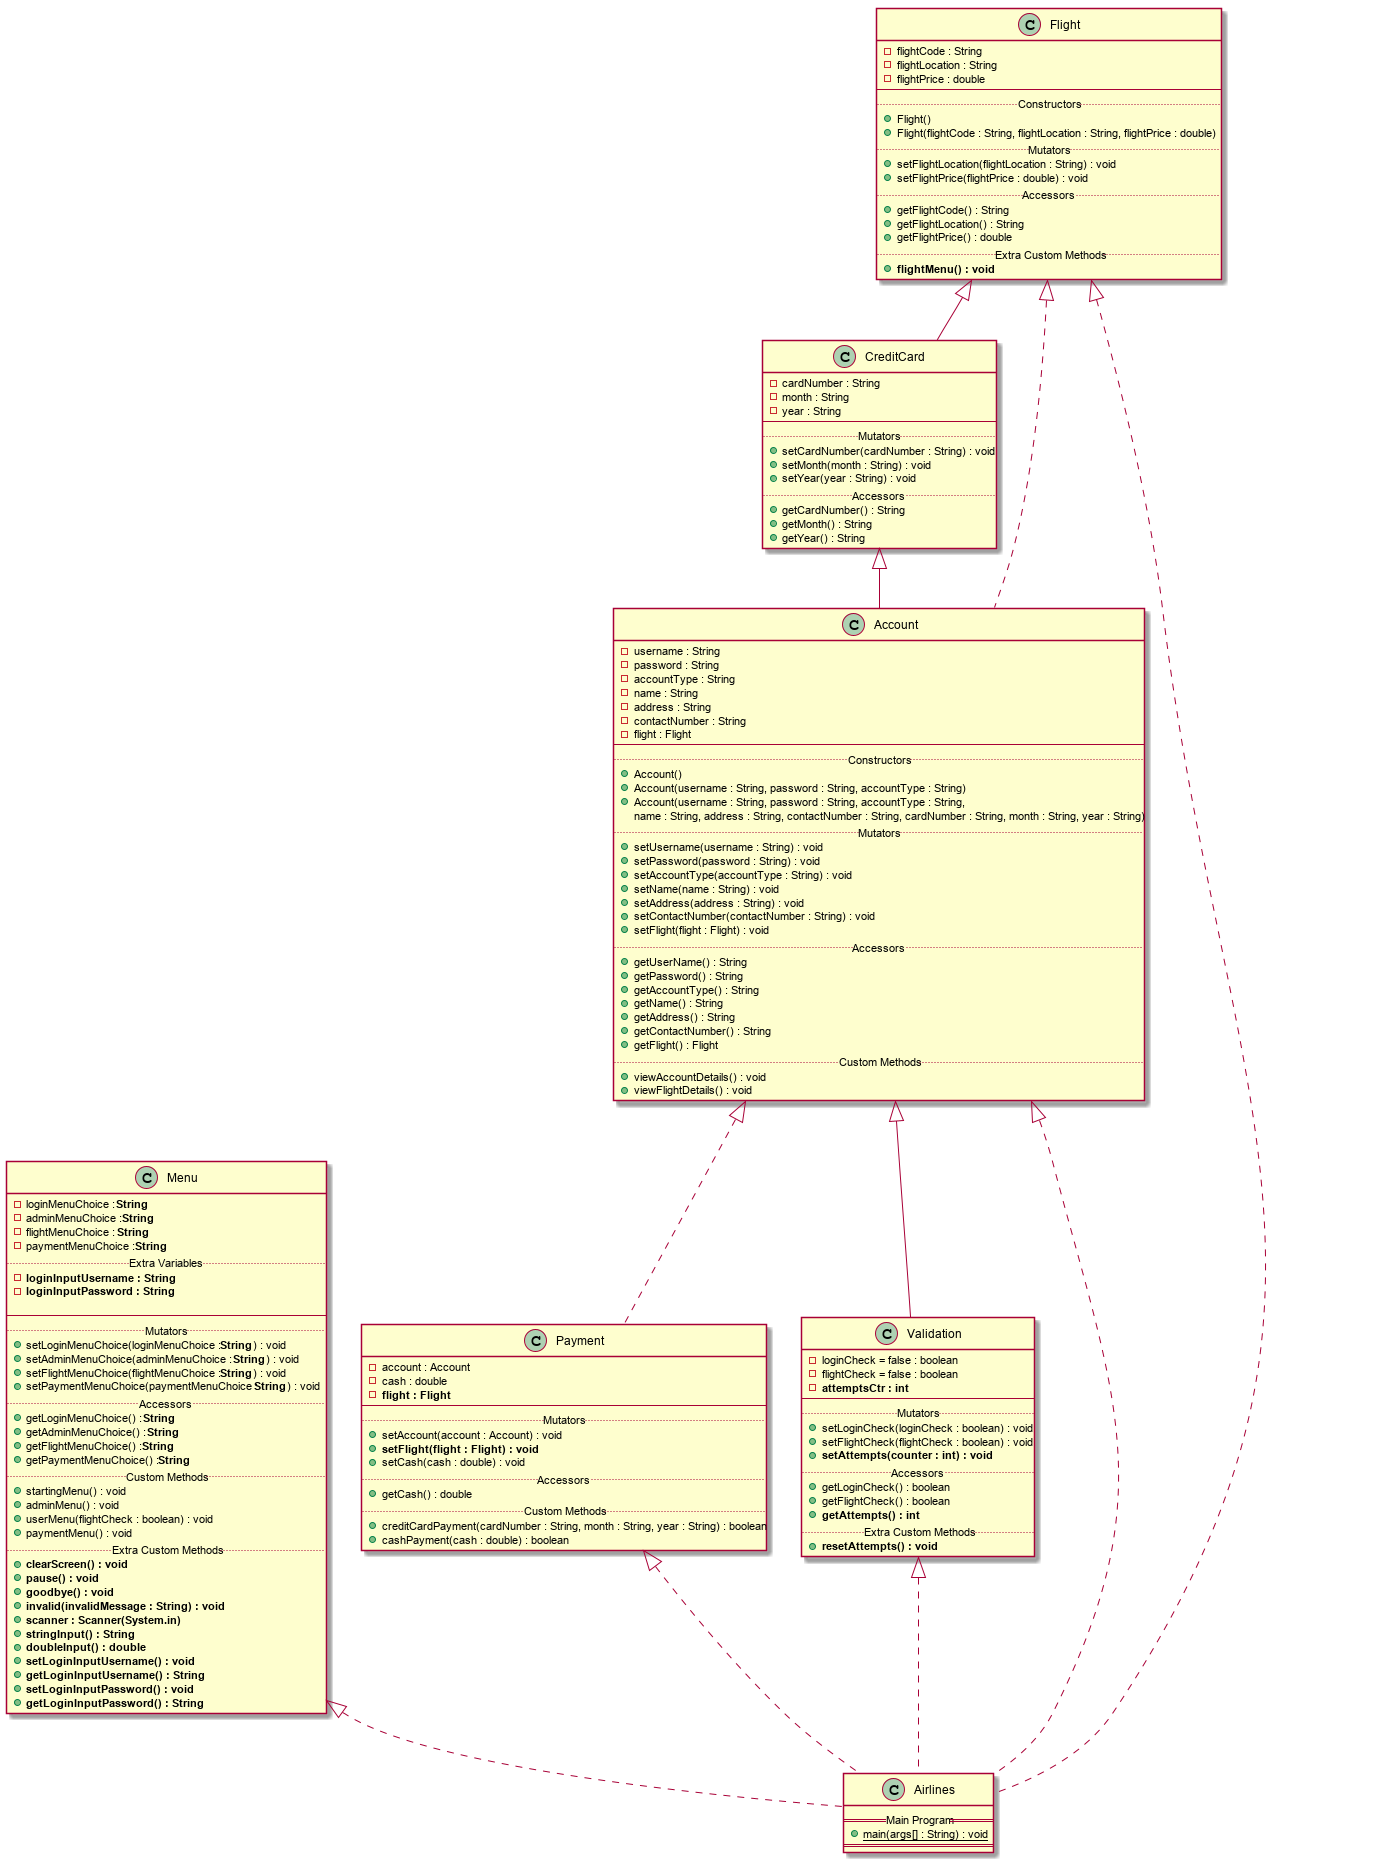
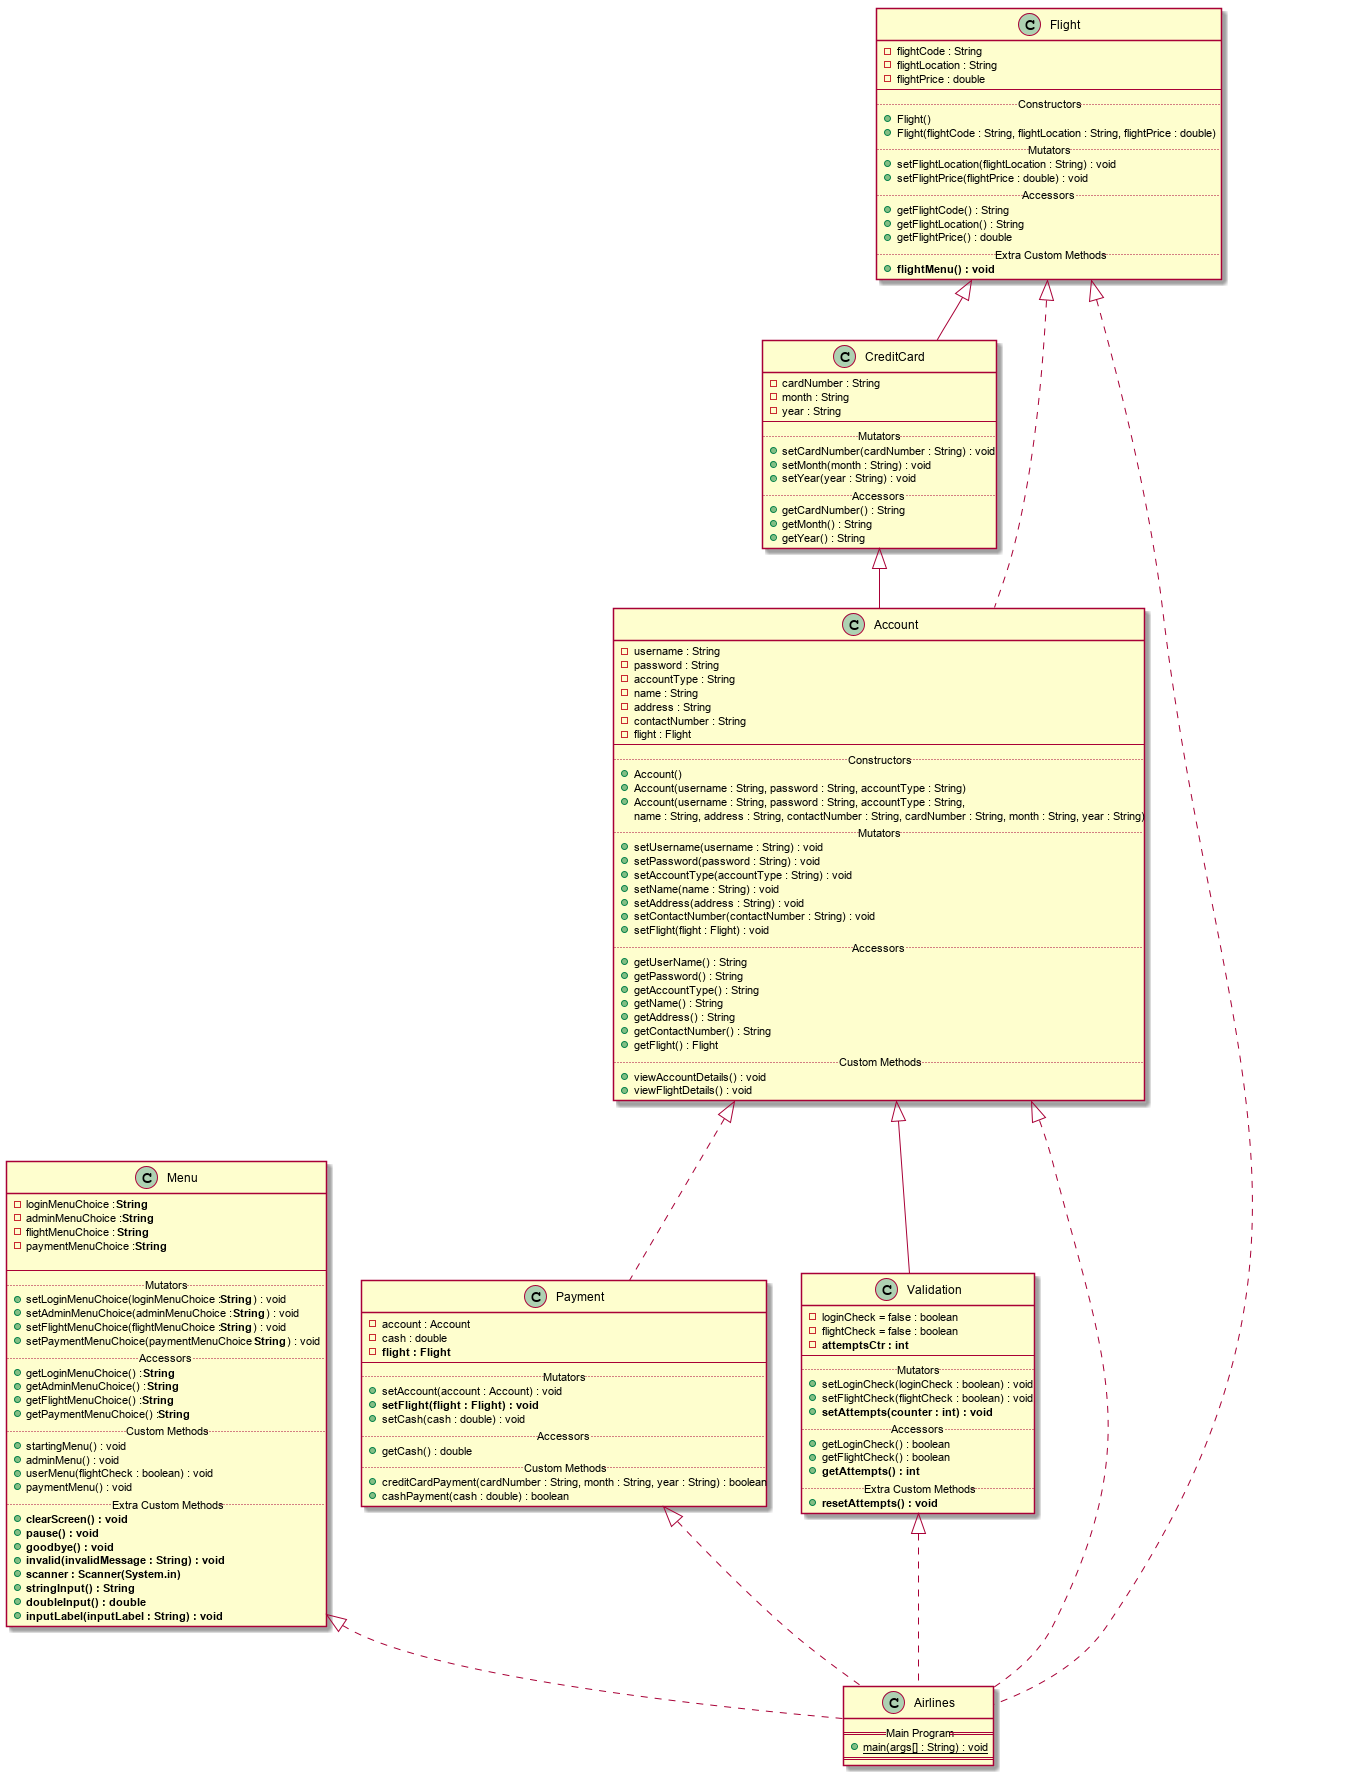
more progress on airlines.

Changed region(s): [[0.4289, 0.0, 0.919, 0.6507], [0.0, 0.6197, 0.7659, 0.9296], [0.5821, 0.9296, 0.7352, 1.0]]

diff --git a/Java Projects/Grade 11/DeGuzmanIAN-Llantos_JavaAirlines/Airlines.java b/Java Projects/Grade 11/DeGuzmanIAN-Llantos_JavaAirlines/Airlines.java
@@ -15,6 +15,7 @@ public class Airlines
         Flight plane2 = new Flight("5PNB61", "Akihabara, Japan", 4500);
         Flight plane3 = new Flight("1KL78H","Beijing, China",4000);
 
+        // Loop 0: Login Menu
         while(!menu.getLoginMenuChoice().equals("2"))
         {
             menu.clearScreen();
@@ -23,8 +24,10 @@ public class Airlines
 
             switch(menu.getLoginMenuChoice())
             {
-                case "1":
 
+                case "1":
+                    
+                    // Loop 1: Login Verification
                     valid.resetAttempts();
                     for(int i = 0; valid.getLoginCheck() == false && valid.getAttempts() < 3;i++)
                     {
@@ -33,25 +36,95 @@ public class Airlines
                         System.out.println("(Testing: OOP Attempts Accumulator Loop)");
                         System.out.println("Count of Attempts: " + valid.getAttempts());
 
-                        System.out.print("\nEnter username: ");
-                        menu.setLoginInputUsername(menu.stringInput());
-                        System.out.print("Enter password: ");
-                        menu.setLoginInputPassword(menu.stringInput());
+                        menu.inputLabel("username");
+                        valid.setUsername(menu.stringInput());
+                        menu.inputLabel("password");
+                        valid.setPassword(menu.stringInput());
 
-                        if(menu.getLoginInputUsername().equals(admin.getUsername()) && menu.getLoginInputPassword().equals(admin.getPassword()) && valid.getAttempts() < 3)
+                        if(valid.getUsername().equals(admin.getUsername()) && valid.getPassword().equals(admin.getPassword()) && valid.getAttempts() < 3)
                         {
-                            valid.setLoginCheck(true);
+                            valid.setAccountType("admin");
                             valid.resetAttempts();
+                            valid.setLoginCheck(true);
                         }
-                        else if(menu.getLoginInputUsername().equals(user.getUsername()) && menu.getLoginInputPassword().equals(user.getPassword()) && valid.getAttempts() < 3)
+                        else if(valid.getUsername().equals(user.getUsername()) && valid.getPassword().equals(user.getPassword()) && valid.getAttempts() < 3)
                         {
-                            valid.setLoginCheck(true);
+                            valid.setAccountType("user");
                             valid.resetAttempts();
+                            valid.setLoginCheck(true);
                         }
                         else
                         {
-                            valid.setLoginCheck(false);
+                            //valid.setLoginCheck(false);
                             valid.setAttempts(i);
+                        }
+                    }
+
+                    if(valid.getLoginCheck() == true && valid.getAccountType().equals("admin"))
+                    {
+                        // Loop 2: Admin Menu
+                        while(!menu.getAdminMenuChoice().equals("2"))
+                        {
+                            menu.clearScreen();
+                            menu.adminMenu();
+                            menu.setAdminMenuChoice(menu.stringInput());
+
+                            switch(menu.getAdminChoice())
+                            {
+                                case "1":
+
+                                break;
+
+                                case "2": 
+                                    menu.goodbye(); 
+                                    menu.pause(); 
+                                break;
+
+                                default: 
+                                    menu.invalid("Invalid Input"); 
+                                    menu.pause();
+                                break;
+                            }
+                        }
+                    }
+
+                    else if(valid.getLoginCheck() == true && valid.getAccountType().equals("user"))
+                    {
+                        // Loop 3: User Menu
+                        while(!menu.getUserMenuChoice().equals("5"))
+                        {
+                            menu.clearScreen();
+                            menu.userMenu(valid.getFlightCheck());
+                            menu.setUserMenuChoice(menu.stringInput());
+
+                            switch(menu.getUserMenuChoice())
+                            {
+                                case "1":
+
+                                break;
+
+                                case "2":
+
+                                break;
+
+                                case "3":
+
+                                break;
+
+                                case "4":
+
+                                break;
+
+                                case "5":
+                                    menu.goodbye();
+                                    menu.pause();
+                                break;
+
+                                default: 
+                                    menu.invalid("Invalid Input");
+                                    menu.pause();
+                                break;
+                            }
                         }
                     }
 
@@ -61,7 +134,9 @@ public class Airlines
                     menu.goodbye();
                 break;
 
-                default: menu.invalid("Invalid Input");
+                default: 
+                    menu.invalid("Invalid Input"); 
+                    menu.pause();
             }
         }
     }

diff --git a/Java Projects/Grade 11/DeGuzmanIAN-Llantos_JavaAirlines/Menu.java b/Java Projects/Grade 11/DeGuzmanIAN-Llantos_JavaAirlines/Menu.java
@@ -8,8 +8,6 @@ public class Menu
     private String flightMenuChoice;
     private String paymentMenuChoice;
 
-    private Scanner scanner = new Scanner(System.in);
-
     public void setLoginMenuChoice(String loginMenuChoice)
     {
         this.loginMenuChoice = loginMenuChoice;
@@ -98,9 +96,8 @@ public class Menu
     }
 
     // CUSTOM STUFF
-    private String loginInputUsername;
-    private String loginInputPassword;
-
+    private Scanner scanner = new Scanner(System.in);
+    
     public void clearScreen() throws IOException, InterruptedException 
     {
         new ProcessBuilder("cmd", "/c", "cls").inheritIO().start().waitFor();
@@ -131,21 +128,9 @@ public class Menu
         System.out.println("\n" + invalidMessage);
         pause();
     }
-    public void setLoginInputUsername(String loginInputUsername)
+    public void inputLabel(String inputLabel)
     {
-        this.loginInputUsername = loginInputUsername;
-    }
-    public String getLoginInputUsername()
-    {
-        return this.loginInputUsername;
-    }
-    public void setLoginInputPassowrd(String loginInputPassword)
-    {
-        this.loginInputPassword = loginInputPassword;
-    }
-    public String getLoginInputPassword()
-    {
-        return this.loginInputPassword;
+        System.out.print("\nEnter " + inputLabel + ": ");
     }
 
 }

diff --git a/Java Projects/Grade 11/DeGuzmanIAN-Llantos_JavaAirlines/Descriptions-Diagrams/ClassDiagrams.md b/Java Projects/Grade 11/DeGuzmanIAN-Llantos_JavaAirlines/Descriptions-Diagrams/ClassDiagrams.md
@@ -5,9 +5,6 @@ class Menu
     -adminMenuChoice : **String**
     -flightMenuChoice : **String**
     -paymentMenuChoice : **String**
-    ..Extra Variables..
-    -**loginInputUsername : String**
-    -**loginInputPassword : String**
     
     --
     ..Mutators..
@@ -33,10 +30,7 @@ class Menu
     +**scanner : Scanner(System.in)**
     +**stringInput() : String**
     +**doubleInput() : double**
-    +**setLoginInputUsername() : void**
-    +**getLoginInputUsername() : String**
-    +**setLoginInputPassword() : void**
-    +**getLoginInputPassword() : String**
+    +**inputLabel(inputLabel : String) : void**
 }
 
 class Payment
